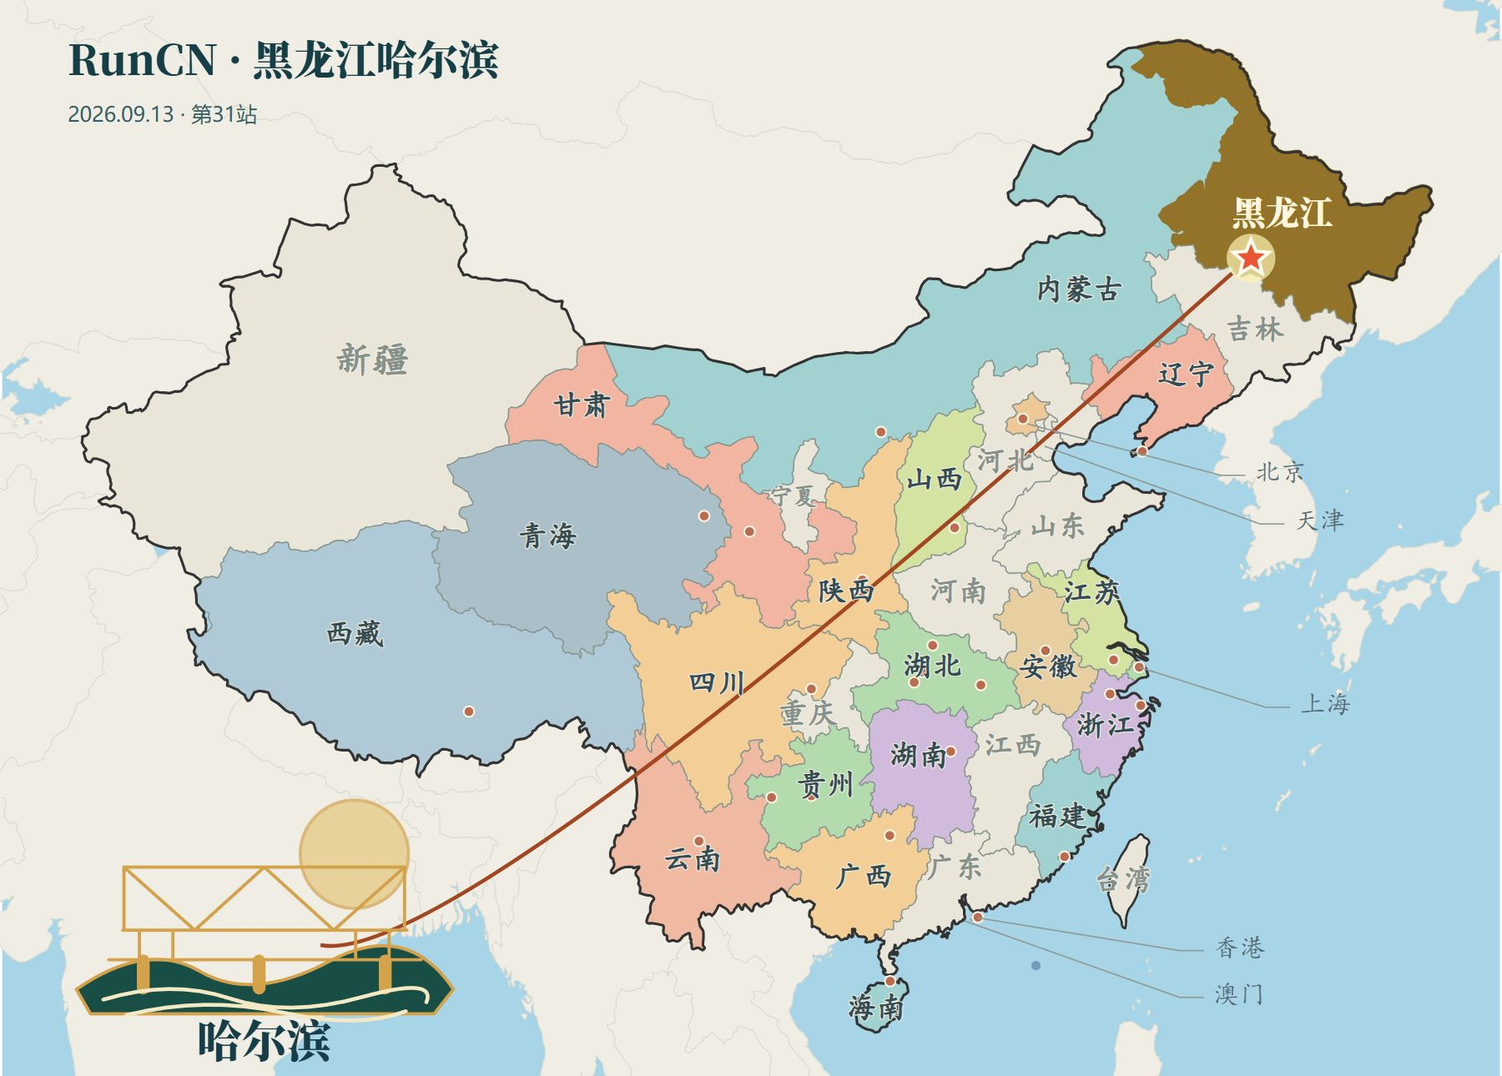
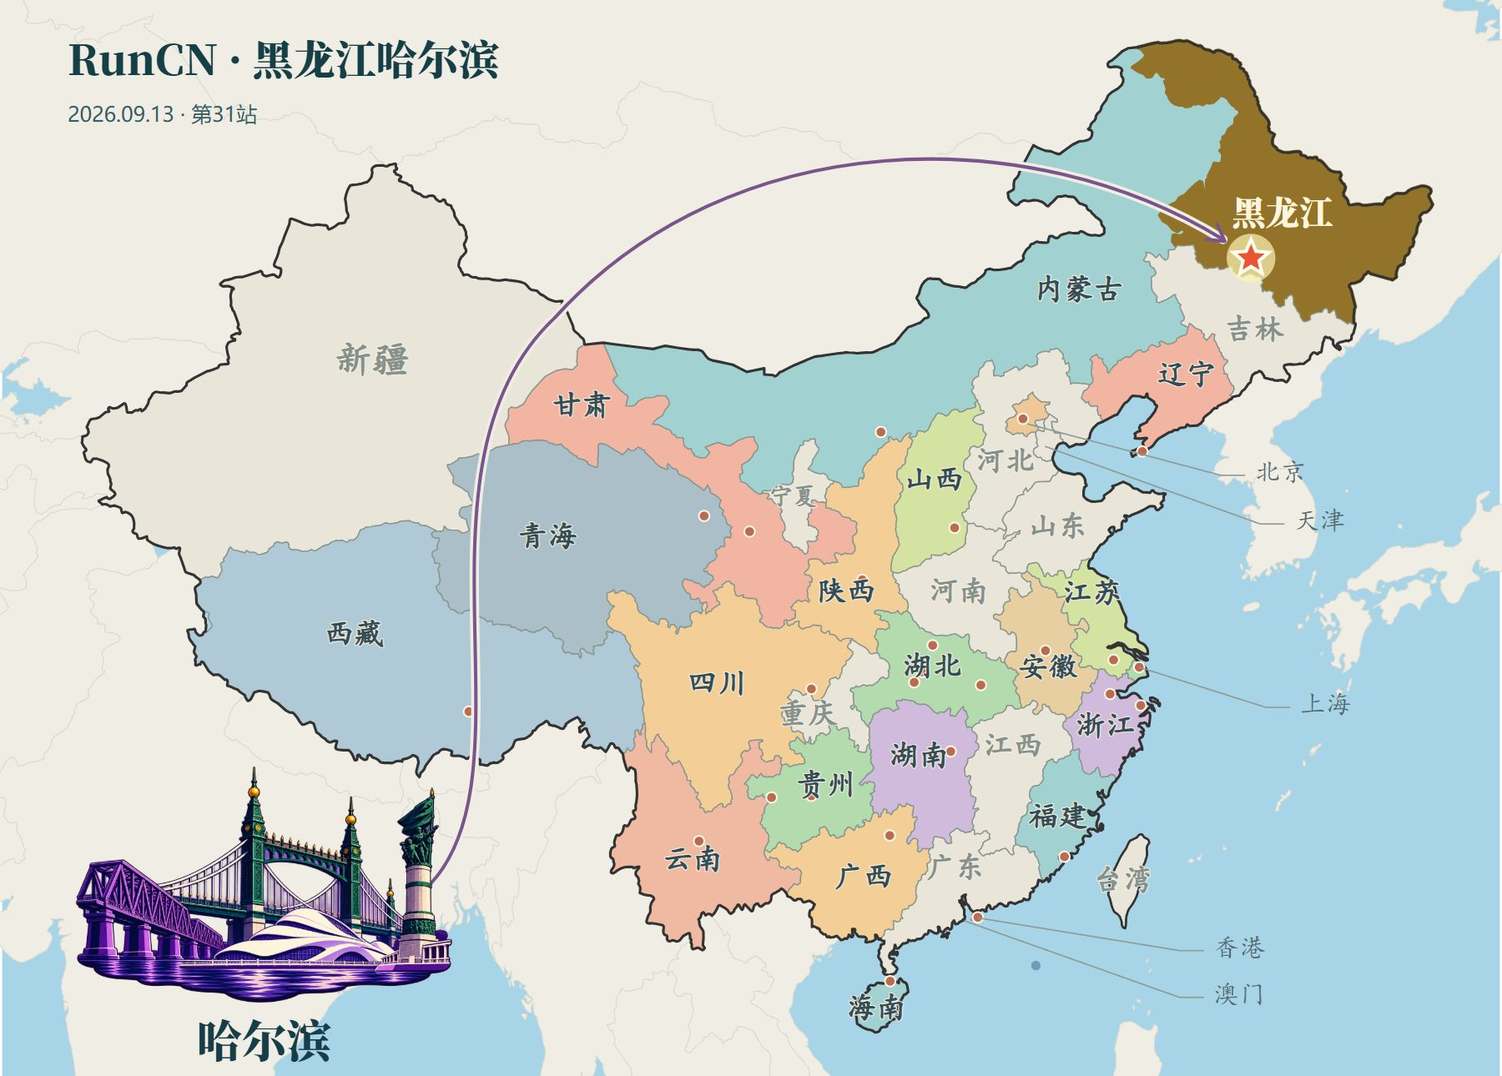
Refine Harbin map landmark art and opening photo sequence

diff --git a/run50/wechat/harbin-marathon-2026-editorial.html b/run50/wechat/harbin-marathon-2026-editorial.html
@@ -1,4 +1,4 @@
-<!doctype html><html lang="zh-CN"><head><meta charset="utf-8"><meta name="viewport" content="width=device-width,initial-scale=1"><title>RunCN #第31站｜黑龙江哈尔滨马拉松｜红肠配格瓦斯，跑回家人身边</title><meta name="description" content="从顺德回哈尔滨，住进动漫酒店，逛中央大街、老道外，走上老铁桥。第二天穿紫色战袍，雨里跑过阳明滩，红肠配格瓦斯，五小时零二分左右完赛，再把奖牌给妈妈戴上。"><meta property="og:image" content="https://zhennanzhang.com/assets/runcn-harbin-2026/cover.jpg"><style>
+<!doctype html><html lang="zh-CN"><head><meta charset="utf-8"><meta name="viewport" content="width=device-width,initial-scale=1"><title>RunCN #第31站｜黑龙江哈尔滨马拉松｜红肠配格瓦斯，跑回家人身边</title><meta name="description" content="从顺德回哈尔滨，住进动漫酒店，逛中央大街、老道外，走上老铁桥。第二天穿紫色战袍，雨里跑过阳明滩，红肠配格瓦斯，跑完再把奖牌给妈妈戴上。"><meta property="og:image" content="https://zhennanzhang.com/assets/runcn-harbin-2026/cover.jpg"><style>
 :root{color-scheme:light;--paper:#fff;--ink:#262626;--muted:#888;--accent:#c0a04c}
 *{box-sizing:border-box}body{margin:0;background:var(--paper);color:var(--ink);font-family:"PingFang SC","Microsoft YaHei",Arial,sans-serif}
 main{width:100%;max-width:677px;margin:auto;padding:0 20px 72px}img{max-width:100%}
@@ -19,10 +19,10 @@ html[data-theme="dark"] .ending{border-color:#444}html[data-theme="dark"] .copy-
 main{padding-left:20px;padding-right:20px}.cover{margin-left:0;margin-right:0}.intro,.chapter{margin-left:0;margin-right:0}
 .prose [data-cn-tone="0"]{color:#ac4336}.prose [data-cn-tone="1"]{color:#237953}.prose [data-cn-tone="2"]{color:#306eaa}.prose [data-cn-tone="3"]{color:#9a681c}.prose strong{font-weight:800}.prose [data-cn-emphasis="underline"]{text-decoration:underline;text-decoration-thickness:2px;text-underline-offset:4px}html[data-theme="dark"] .prose [data-cn-tone="0"]{color:#f09589}html[data-theme="dark"] .prose [data-cn-tone="1"]{color:#85c9a6}html[data-theme="dark"] .prose [data-cn-tone="2"]{color:#91bce8}html[data-theme="dark"] .prose [data-cn-tone="3"]{color:#e8c481}main{padding-left:20px;padding-right:20px}.cover,.intro,.chapter{margin-left:0;margin-right:0}.photo-strip{margin:26px 0 30px}.photo-strip img{display:block;width:100%;height:auto;margin:0}.photo-strip figcaption,figure figcaption{margin:10px 0 0;text-align:center;font-size:12px;line-height:1.8;color:var(--muted)}.brand-intro{display:block;text-align:center;margin:0 auto 14px}.brand-intro img{display:inline-block;width:110px;height:110px}.cover img{display:block;width:100%;height:auto;aspect-ratio:1}.location-poster{background:#f0ede4}.location-poster img{display:block;width:100%;max-width:100%;height:auto;padding:0;margin:0;border:0;box-sizing:border-box}.location-poster figcaption{background:var(--paper);margin:0;padding-top:10px}.source-note{font-size:11px;line-height:1.8;color:var(--muted);margin-top:24px}.source-note a{color:inherit}.chapter-label{color:#753d99}html[data-theme="dark"] .chapter-label{color:#d0a4ed}.byline{line-height:2}.series{letter-spacing:3px}.prose{margin:0 0 22px;font-size:15px;line-height:1.95;letter-spacing:.5px;text-align:justify}</style></head><body><nav class="copy-tools"><a href="/CN/#runcn-series" style="color:inherit">RunCN 目录</a><button data-theme-choice="light" aria-pressed="true">白底</button><button data-theme-choice="dark" aria-pressed="false">黑底</button><button id="copy-wechat">一键复制到公众号</button><span id="copy-status" role="status" aria-live="polite"></span></nav><main data-edition="runcn-harbin-2026"><header class="masthead"><h1>RunCN #第31站｜黑龙江哈尔滨马拉松｜红肠配格瓦斯，跑回家人身边</h1><p class="byline">黑龙江哈尔滨 · 2026年9月13日<br>文字 / Arsenan</p></header>
 <picture class="brand-intro"><source media="(prefers-reduced-motion: reduce)" srcset="/assets/series-intros-20261020/harbin-marathon-2026/light-still.png" data-light-src="/assets/series-intros-20261020/harbin-marathon-2026/light-still.png" data-dark-src="/assets/series-intros-20261020/harbin-marathon-2026/dark-still.png"><img src="/assets/series-intros-20261020/harbin-marathon-2026/light.gif" data-light-src="/assets/series-intros-20261020/harbin-marathon-2026/light.gif" data-dark-src="/assets/series-intros-20261020/harbin-marathon-2026/dark.gif" width="280" height="280" alt="紫色 RunCN 山路片头"></picture>
-<figure class="cover"><picture><source media="(prefers-reduced-motion: reduce)" srcset="/assets/runcn-harbin-2026/hero-still.jpg"><img src="/assets/runcn-harbin-2026/hero.gif" width="900" height="900" fetchpriority="high" alt="哈尔滨赛前旅行、紫衣跑马和动漫酒店留影"></picture><figcaption>回哈尔滨，跑一场家乡的马拉松<br>摄影 / Arsenan、官方摄影</figcaption></figure>
+<figure class="cover"><picture><source media="(prefers-reduced-motion: reduce)" srcset="/assets/runcn-harbin-2026/hero-still.jpg"><img src="/assets/runcn-harbin-2026/hero.gif?v=20261024-revised" width="900" height="900" fetchpriority="high" alt="哈尔滨赛前旅行、紫衣跑马、家人合影和动漫酒店留影"></picture><figcaption>回哈尔滨，跑一场家乡的马拉松<br>摄影 / Arsenan、官方摄影</figcaption></figure>
 <div class="down" aria-hidden="true">⌄<br>⌄<br>⌄</div>
-<section class="intro"><p>从<strong data-cn-tone="1">顺德</strong>回<strong data-cn-tone="0">哈尔滨</strong>，住进动漫酒店，逛<strong data-cn-tone="1">中央大街</strong>、老道外，走上<strong data-cn-tone="3">老铁桥</strong>。第二天穿<strong data-cn-tone="2">紫色战袍</strong>，雨里跑过阳明滩，<strong data-cn-tone="2">红肠</strong>配<strong data-cn-tone="1">格瓦斯</strong>，<strong data-cn-tone="1">五小时零二分</strong>左右完赛，再把奖牌<strong data-cn-tone="3" data-cn-emphasis="underline">给妈妈戴上</strong>。</p></section>
-<figure class="photo-strip location-poster"><img src="/assets/runcn-article-maps-20261022/harbin-marathon-2026.jpg" alt="RunCN 第31站历史足迹，定位黑龙江哈尔滨"><img src="/assets/runcn-harbin-2026/poster.jpg" alt="黑龙江哈尔滨，紫色雨中双桥与大剧院，2026 RunCN31"><figcaption>黑龙江 · 哈尔滨 · RunCN 第31站<br>制图 / Arsenan · 封面设计 / Arsenan × AI</figcaption></figure>
+<section class="intro"><p>从<strong data-cn-tone="1">顺德</strong>回<strong data-cn-tone="0">哈尔滨</strong>，住进动漫酒店，逛<strong data-cn-tone="1">中央大街</strong>、老道外，走上<strong data-cn-tone="3">老铁桥</strong>。第二天穿<strong data-cn-tone="2">紫色战袍</strong>，雨里跑过阳明滩，<strong data-cn-tone="2">红肠</strong>配<strong data-cn-tone="1">格瓦斯</strong>，跑完再把奖牌<strong data-cn-tone="3" data-cn-emphasis="underline">给妈妈戴上</strong>。</p></section>
+<figure class="photo-strip location-poster"><img src="/assets/runcn-article-maps-20261022/harbin-marathon-2026.jpg?v=20261024-revised" alt="RunCN 第31站历史足迹，定位黑龙江哈尔滨"><img src="/assets/runcn-harbin-2026/poster.jpg" alt="黑龙江哈尔滨，紫色雨中双桥与大剧院，2026 RunCN31"><figcaption>黑龙江 · 哈尔滨 · RunCN 第31站<br>制图 / Arsenan · 封面设计 / Arsenan × AI</figcaption></figure>
 <header class="chapter"><span class="chapter-number">01</span><p class="chapter-label">从南到北</p><h2>回哈尔滨，跑一场家乡的马拉松</h2></header>
 <p class="prose">九月十一号，<strong data-cn-tone="1">顺德</strong>的房间退了，箱子也收拾好了。这次回国待了两个月，吃得好，生活也方便，就是照镜子的时候发现，脸确实越来越圆了。我一边拍视频一边念叨：回美国得减肥了。嘴上说着减肥，下一站又是<strong data-cn-tone="0">哈尔滨</strong>。</p>
 <figure class="photo-strip"><img src="/assets/runcn-harbin-2026/photos/HR-000-0.jpeg" srcset="/assets/runcn-harbin-2026/preview/001.jpg 1600w" sizes="(max-width:677px) calc(100vw - 40px), 637px" data-copy-src="/assets/runcn-harbin-2026/photos/HR-000-0.jpeg" data-photo-id="001" alt="天还没亮，拖着箱子去赶车" width="3812" height="2714" loading="lazy" decoding="async"><img src="/assets/runcn-harbin-2026/photos/HR-000-1.jpeg" srcset="/assets/runcn-harbin-2026/preview/002.jpg 1600w" sizes="(max-width:677px) calc(100vw - 40px), 637px" data-copy-src="/assets/runcn-harbin-2026/photos/HR-000-1.jpeg" data-photo-id="002" alt="从南方出发，往哈尔滨飞" width="3958" height="2930" loading="lazy" decoding="async"><figcaption>天还没亮，拖着箱子去赶车；从南方出发，往哈尔滨飞 · 摄影 / Arsenan</figcaption></figure>

diff --git a/run50/wechat/harbin-marathon-2026-modern-rail.html b/run50/wechat/harbin-marathon-2026-modern-rail.html
@@ -1,4 +1,4 @@
-<!doctype html><html lang="zh-CN"><head><meta charset="utf-8"><meta name="viewport" content="width=device-width,initial-scale=1"><title>RunCN #第31站｜黑龙江哈尔滨马拉松｜红肠配格瓦斯，跑回家人身边</title><meta name="description" content="从顺德回哈尔滨，住进动漫酒店，逛中央大街、老道外，走上老铁桥。第二天穿紫色战袍，雨里跑过阳明滩，红肠配格瓦斯，五小时零二分左右完赛，再把奖牌给妈妈戴上。"><meta property="og:image" content="https://zhennanzhang.com/assets/runcn-harbin-2026/cover.jpg"><style>
+<!doctype html><html lang="zh-CN"><head><meta charset="utf-8"><meta name="viewport" content="width=device-width,initial-scale=1"><title>RunCN #第31站｜黑龙江哈尔滨马拉松｜红肠配格瓦斯，跑回家人身边</title><meta name="description" content="从顺德回哈尔滨，住进动漫酒店，逛中央大街、老道外，走上老铁桥。第二天穿紫色战袍，雨里跑过阳明滩，红肠配格瓦斯，跑完再把奖牌给妈妈戴上。"><meta property="og:image" content="https://zhennanzhang.com/assets/runcn-harbin-2026/cover.jpg"><style>
 :root{color-scheme:light;--paper:#fff;--ink:#262626;--muted:#888;--accent:#c0a04c}
 *{box-sizing:border-box}body{margin:0;background:var(--paper);color:var(--ink);font-family:"PingFang SC","Microsoft YaHei",Arial,sans-serif}
 main{width:100%;max-width:677px;margin:auto;padding:0 20px 72px}img{max-width:100%}
@@ -19,10 +19,10 @@ html[data-theme="dark"] .ending{border-color:#444}html[data-theme="dark"] .copy-
 main{padding-left:20px;padding-right:20px}.cover{margin-left:0;margin-right:0}.intro,.chapter{margin-left:0;margin-right:0}
 .prose [data-cn-tone="0"]{color:#ac4336}.prose [data-cn-tone="1"]{color:#237953}.prose [data-cn-tone="2"]{color:#306eaa}.prose [data-cn-tone="3"]{color:#9a681c}.prose strong{font-weight:800}.prose [data-cn-emphasis="underline"]{text-decoration:underline;text-decoration-thickness:2px;text-underline-offset:4px}html[data-theme="dark"] .prose [data-cn-tone="0"]{color:#f09589}html[data-theme="dark"] .prose [data-cn-tone="1"]{color:#85c9a6}html[data-theme="dark"] .prose [data-cn-tone="2"]{color:#91bce8}html[data-theme="dark"] .prose [data-cn-tone="3"]{color:#e8c481}main{padding-left:20px;padding-right:20px}.cover,.intro,.chapter{margin-left:0;margin-right:0}.photo-strip{margin:26px 0 30px}.photo-strip img{display:block;width:100%;height:auto;margin:0}.photo-strip figcaption,figure figcaption{margin:10px 0 0;text-align:center;font-size:12px;line-height:1.8;color:var(--muted)}.brand-intro{display:block;text-align:center;margin:0 auto 14px}.brand-intro img{display:inline-block;width:110px;height:110px}.cover img{display:block;width:100%;height:auto;aspect-ratio:1}.location-poster{background:#f0ede4}.location-poster img{display:block;width:100%;max-width:100%;height:auto;padding:0;margin:0;border:0;box-sizing:border-box}.location-poster figcaption{background:var(--paper);margin:0;padding-top:10px}.source-note{font-size:11px;line-height:1.8;color:var(--muted);margin-top:24px}.source-note a{color:inherit}.chapter-label{color:#753d99}html[data-theme="dark"] .chapter-label{color:#d0a4ed}.byline{line-height:2}.series{letter-spacing:3px}.prose{margin:0 0 22px;font-size:15px;line-height:1.95;letter-spacing:.5px;text-align:justify}</style></head><body><nav class="copy-tools"><a href="/CN/#runcn-series" style="color:inherit">RunCN 目录</a><button data-theme-choice="light" aria-pressed="true">白底</button><button data-theme-choice="dark" aria-pressed="false">黑底</button><button id="copy-wechat">一键复制到公众号</button><span id="copy-status" role="status" aria-live="polite"></span></nav><main data-edition="runcn-harbin-2026"><header class="masthead"><h1>RunCN #第31站｜黑龙江哈尔滨马拉松｜红肠配格瓦斯，跑回家人身边</h1><p class="byline">黑龙江哈尔滨 · 2026年9月13日<br>文字 / Arsenan</p></header>
 <picture class="brand-intro"><source media="(prefers-reduced-motion: reduce)" srcset="/assets/series-intros-20261020/harbin-marathon-2026/light-still.png" data-light-src="/assets/series-intros-20261020/harbin-marathon-2026/light-still.png" data-dark-src="/assets/series-intros-20261020/harbin-marathon-2026/dark-still.png"><img src="/assets/series-intros-20261020/harbin-marathon-2026/light.gif" data-light-src="/assets/series-intros-20261020/harbin-marathon-2026/light.gif" data-dark-src="/assets/series-intros-20261020/harbin-marathon-2026/dark.gif" width="280" height="280" alt="紫色 RunCN 山路片头"></picture>
-<figure class="cover"><picture><source media="(prefers-reduced-motion: reduce)" srcset="/assets/runcn-harbin-2026/hero-still.jpg"><img src="/assets/runcn-harbin-2026/hero.gif" width="900" height="900" fetchpriority="high" alt="哈尔滨赛前旅行、紫衣跑马和动漫酒店留影"></picture><figcaption>回哈尔滨，跑一场家乡的马拉松<br>摄影 / Arsenan、官方摄影</figcaption></figure>
+<figure class="cover"><picture><source media="(prefers-reduced-motion: reduce)" srcset="/assets/runcn-harbin-2026/hero-still.jpg"><img src="/assets/runcn-harbin-2026/hero.gif?v=20261024-revised" width="900" height="900" fetchpriority="high" alt="哈尔滨赛前旅行、紫衣跑马、家人合影和动漫酒店留影"></picture><figcaption>回哈尔滨，跑一场家乡的马拉松<br>摄影 / Arsenan、官方摄影</figcaption></figure>
 <div class="down" aria-hidden="true">⌄<br>⌄<br>⌄</div>
-<section class="intro"><p>从<strong data-cn-tone="1">顺德</strong>回<strong data-cn-tone="0">哈尔滨</strong>，住进动漫酒店，逛<strong data-cn-tone="1">中央大街</strong>、老道外，走上<strong data-cn-tone="3">老铁桥</strong>。第二天穿<strong data-cn-tone="2">紫色战袍</strong>，雨里跑过阳明滩，<strong data-cn-tone="2">红肠</strong>配<strong data-cn-tone="1">格瓦斯</strong>，<strong data-cn-tone="1">五小时零二分</strong>左右完赛，再把奖牌<strong data-cn-tone="3" data-cn-emphasis="underline">给妈妈戴上</strong>。</p></section>
-<figure class="photo-strip location-poster"><img src="/assets/runcn-article-maps-20261022/harbin-marathon-2026.jpg" alt="RunCN 第31站历史足迹，定位黑龙江哈尔滨"><img src="/assets/runcn-harbin-2026/poster.jpg" alt="黑龙江哈尔滨，紫色雨中双桥与大剧院，2026 RunCN31"><figcaption>黑龙江 · 哈尔滨 · RunCN 第31站<br>制图 / Arsenan · 封面设计 / Arsenan × AI</figcaption></figure>
+<section class="intro"><p>从<strong data-cn-tone="1">顺德</strong>回<strong data-cn-tone="0">哈尔滨</strong>，住进动漫酒店，逛<strong data-cn-tone="1">中央大街</strong>、老道外，走上<strong data-cn-tone="3">老铁桥</strong>。第二天穿<strong data-cn-tone="2">紫色战袍</strong>，雨里跑过阳明滩，<strong data-cn-tone="2">红肠</strong>配<strong data-cn-tone="1">格瓦斯</strong>，跑完再把奖牌<strong data-cn-tone="3" data-cn-emphasis="underline">给妈妈戴上</strong>。</p></section>
+<figure class="photo-strip location-poster"><img src="/assets/runcn-article-maps-20261022/harbin-marathon-2026.jpg?v=20261024-revised" alt="RunCN 第31站历史足迹，定位黑龙江哈尔滨"><img src="/assets/runcn-harbin-2026/poster.jpg" alt="黑龙江哈尔滨，紫色雨中双桥与大剧院，2026 RunCN31"><figcaption>黑龙江 · 哈尔滨 · RunCN 第31站<br>制图 / Arsenan · 封面设计 / Arsenan × AI</figcaption></figure>
 <header class="chapter"><span class="chapter-number">01</span><p class="chapter-label">从南到北</p><h2>回哈尔滨，跑一场家乡的马拉松</h2></header>
 <p class="prose">九月十一号，<strong data-cn-tone="1">顺德</strong>的房间退了，箱子也收拾好了。这次回国待了两个月，吃得好，生活也方便，就是照镜子的时候发现，脸确实越来越圆了。我一边拍视频一边念叨：回美国得减肥了。嘴上说着减肥，下一站又是<strong data-cn-tone="0">哈尔滨</strong>。</p>
 <figure class="photo-strip"><img src="/assets/runcn-harbin-2026/photos/HR-000-0.jpeg" srcset="/assets/runcn-harbin-2026/preview/001.jpg 1600w" sizes="(max-width:677px) calc(100vw - 40px), 637px" data-copy-src="/assets/runcn-harbin-2026/photos/HR-000-0.jpeg" data-photo-id="001" alt="天还没亮，拖着箱子去赶车" width="3812" height="2714" loading="lazy" decoding="async"><img src="/assets/runcn-harbin-2026/photos/HR-000-1.jpeg" srcset="/assets/runcn-harbin-2026/preview/002.jpg 1600w" sizes="(max-width:677px) calc(100vw - 40px), 637px" data-copy-src="/assets/runcn-harbin-2026/photos/HR-000-1.jpeg" data-photo-id="002" alt="从南方出发，往哈尔滨飞" width="3958" height="2930" loading="lazy" decoding="async"><figcaption>天还没亮，拖着箱子去赶车；从南方出发，往哈尔滨飞 · 摄影 / Arsenan</figcaption></figure>

diff --git a/tools/build_harbin_2026_editorial.py b/tools/build_harbin_2026_editorial.py
@@ -12,7 +12,7 @@ DATA=ROOT/'tools/data'
 TITLE='RunCN #第31站｜黑龙江哈尔滨马拉松｜红肠配格瓦斯，跑回家人身边'
 COVER_SRC='/assets/runcn-harbin-2026/cover.jpg'
 POSTER_SRC='/assets/runcn-harbin-2026/poster.jpg'
-INTRO='从顺德回哈尔滨，住进动漫酒店，逛中央大街、老道外，走上老铁桥。第二天穿紫色战袍，雨里跑过阳明滩，红肠配格瓦斯，五小时零二分左右完赛，再把奖牌给妈妈戴上。'
+INTRO='从顺德回哈尔滨，住进动漫酒店，逛中央大街、老道外，走上老铁桥。第二天穿紫色战袍，雨里跑过阳明滩，红肠配格瓦斯，跑完再把奖牌给妈妈戴上。'
 KEYS='哈尔滨 顺德 中央大街 防洪纪念塔 松花江 中东铁路桥 老铁桥 阳明滩大桥 张包铺 中华巴洛克 灌篮高手 Luna 狍跑 冰雪之冠 格瓦斯 红肠 哈尔滨大剧院 太阳岛 七点半 二十五公里 三十公里 三十四公里 三十七公里 四十公里 五小时零二分 紫色战袍 家乡 排骨包子 锅包肉 地三鲜 圣诞'.split()
 UNDER=['家乡的马拉松，不要太着急','慢慢吃、慢慢玩','来都来了','全国制霸','腿还是得继续动','完赛就好了','给妈妈戴上','见见家人']
 def em(t):
@@ -33,7 +33,7 @@ def prepare_assets():
  import build_remaining_series_editorials as series
  series.SELECT[SLUG]={'light':'#753d99','dark':'#d0a4ed'};series.mountain_intro(SLUG)
  frames=[]
- for n,center in [(30,(.5,.3)),(52,(.5,.3)),(112,(.5,.25)),(130,(.5,.35)),(166,(.05,.5))]:
+ for n,center in [(30,(.5,.3)),(52,(.5,.3)),(112,(.5,.25)),(130,(.5,.35)),(141,(.5,.35)),(158,(1,.5)),(156,(.5,.5)),(166,(.05,.5))]:
   with Image.open(ASSET/'photos'/meta[n-1]['name']) as im:frames.append(ImageOps.fit(ImageOps.exif_transpose(im).convert('RGB'),(900,900),centering=center))
  frames[0].save(ASSET/'hero-still.jpg',quality=95)
  frames[0].save(ASSET/'hero.gif',save_all=True,append_images=frames[1:],duration=3000,loop=0,optimize=False)
@@ -46,9 +46,9 @@ def render():
  css+='''main{padding-left:20px;padding-right:20px}.cover,.intro,.chapter{margin-left:0;margin-right:0}.photo-strip{margin:26px 0 30px}.photo-strip img{display:block;width:100%;height:auto;margin:0}.photo-strip figcaption,figure figcaption{margin:10px 0 0;text-align:center;font-size:12px;line-height:1.8;color:var(--muted)}.brand-intro{display:block;text-align:center;margin:0 auto 14px}.brand-intro img{display:inline-block;width:110px;height:110px}.cover img{display:block;width:100%;height:auto;aspect-ratio:1}.location-poster{background:#f0ede4}.location-poster img{display:block;width:100%;max-width:100%;height:auto;padding:0;margin:0;border:0;box-sizing:border-box}.location-poster figcaption{background:var(--paper);margin:0;padding-top:10px}.source-note{font-size:11px;line-height:1.8;color:var(--muted);margin-top:24px}.source-note a{color:inherit}.chapter-label{color:#753d99}html[data-theme="dark"] .chapter-label{color:#d0a4ed}.byline{line-height:2}.series{letter-spacing:3px}.prose{margin:0 0 22px;font-size:15px;line-height:1.95;letter-spacing:.5px;text-align:justify}'''
  intro='/assets/series-intros-20261020/'+SLUG+'/'
  out=[f'<header class="masthead"><h1>{TITLE}</h1><p class="byline">黑龙江哈尔滨 · 2026年9月13日<br>文字 / Arsenan</p></header>',f'<picture class="brand-intro"><source media="(prefers-reduced-motion: reduce)" srcset="{intro}light-still.png" data-light-src="{intro}light-still.png" data-dark-src="{intro}dark-still.png"><img src="{intro}light.gif" data-light-src="{intro}light.gif" data-dark-src="{intro}dark.gif" width="280" height="280" alt="紫色 RunCN 山路片头"></picture>',
- '<figure class="cover"><picture><source media="(prefers-reduced-motion: reduce)" srcset="/assets/runcn-harbin-2026/hero-still.jpg"><img src="/assets/runcn-harbin-2026/hero.gif" width="900" height="900" fetchpriority="high" alt="哈尔滨赛前旅行、紫衣跑马和动漫酒店留影"></picture><figcaption>回哈尔滨，跑一场家乡的马拉松<br>摄影 / Arsenan、官方摄影</figcaption></figure>',
+ '<figure class="cover"><picture><source media="(prefers-reduced-motion: reduce)" srcset="/assets/runcn-harbin-2026/hero-still.jpg"><img src="/assets/runcn-harbin-2026/hero.gif?v=20261024-revised" width="900" height="900" fetchpriority="high" alt="哈尔滨赛前旅行、紫衣跑马、家人合影和动漫酒店留影"></picture><figcaption>回哈尔滨，跑一场家乡的马拉松<br>摄影 / Arsenan、官方摄影</figcaption></figure>',
  '<div class="down" aria-hidden="true">⌄<br>⌄<br>⌄</div>',f'<section class="intro"><p>{em(INTRO)}</p></section>',
- f'<figure class="photo-strip location-poster"><img src="/assets/runcn-article-maps-20261022/{SLUG}.jpg" alt="RunCN 第31站历史足迹，定位黑龙江哈尔滨"><img src="{POSTER_SRC}" alt="黑龙江哈尔滨，紫色雨中双桥与大剧院，2026 RunCN31"><figcaption>黑龙江 · 哈尔滨 · RunCN 第31站<br>制图 / Arsenan · 封面设计 / Arsenan × AI</figcaption></figure>']
+ f'<figure class="photo-strip location-poster"><img src="/assets/runcn-article-maps-20261022/{SLUG}.jpg?v=20261024-revised" alt="RunCN 第31站历史足迹，定位黑龙江哈尔滨"><img src="{POSTER_SRC}" alt="黑龙江哈尔滨，紫色雨中双桥与大剧院，2026 RunCN31"><figcaption>黑龙江 · 哈尔滨 · RunCN 第31站<br>制图 / Arsenan · 封面设计 / Arsenan × AI</figcaption></figure>']
  used=[];blocks=[];n=0
  for line in (DATA/'harbin-2026-story.txt').read_text(encoding='utf-8').splitlines():
   if not line.strip():continue
